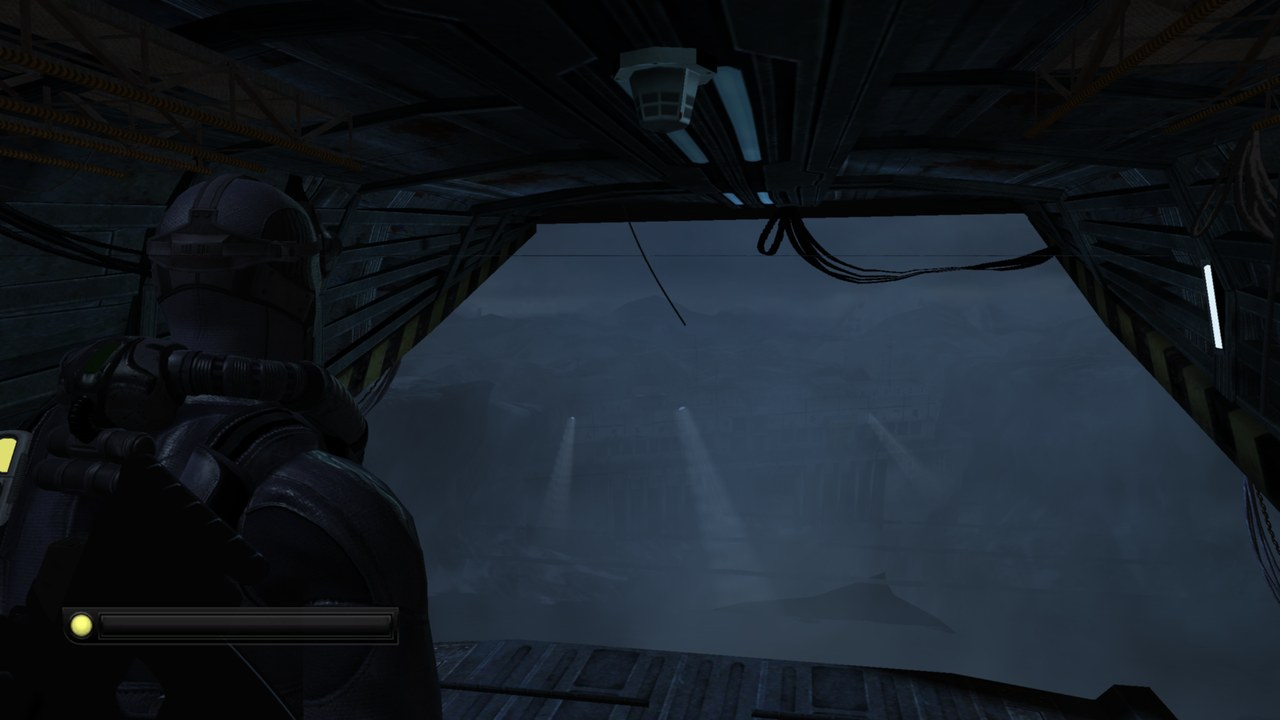
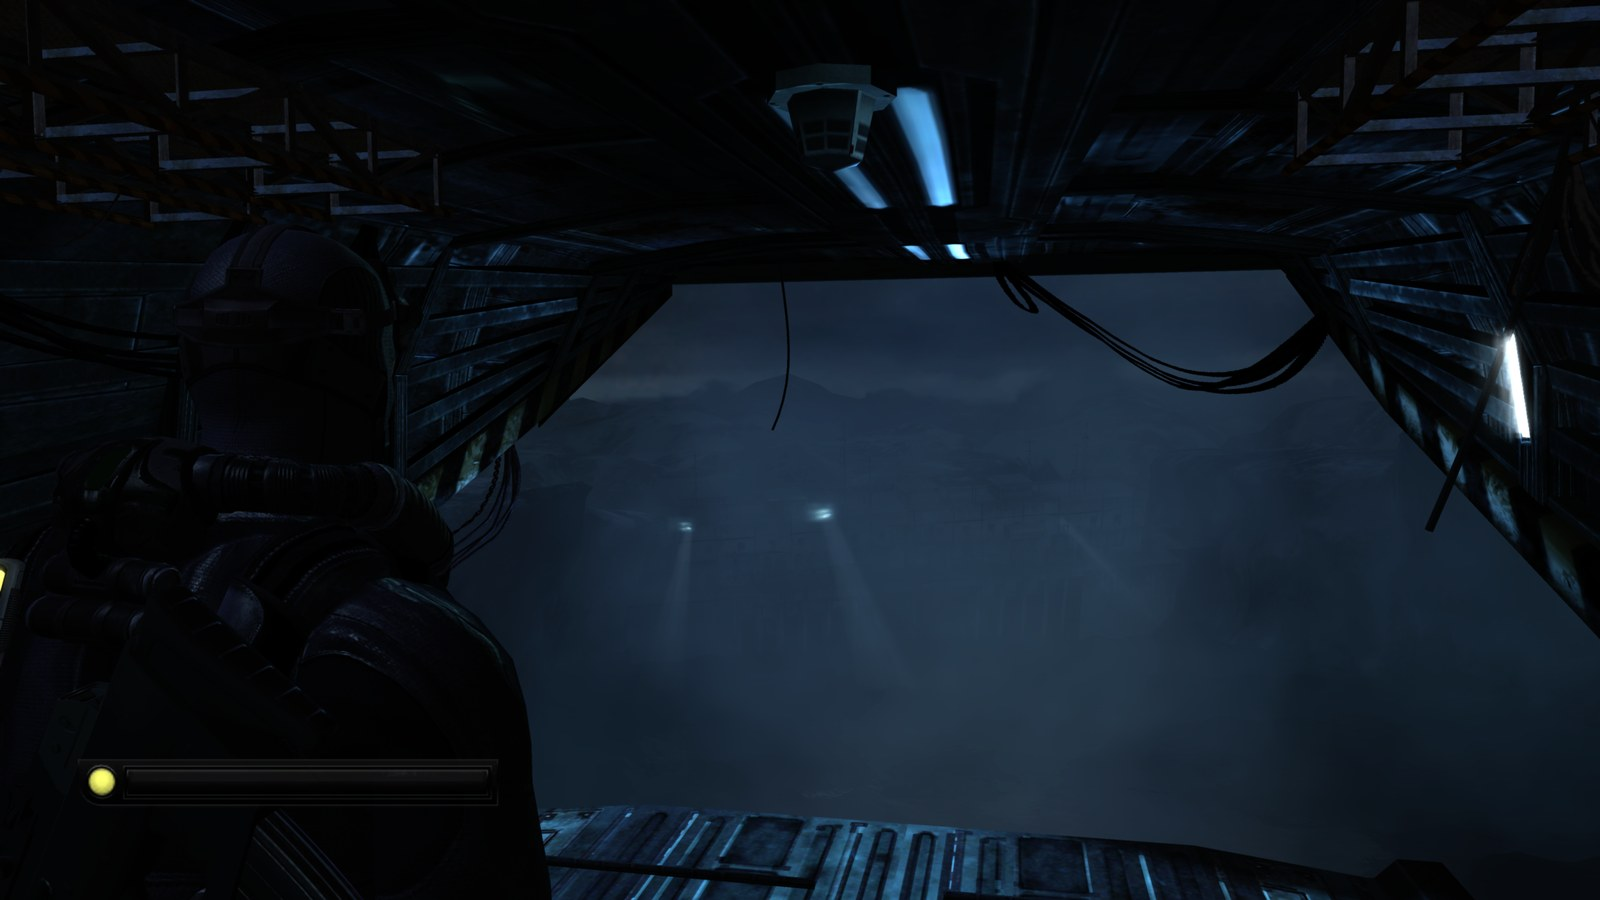
README: November patch notes, new screenshots from the current build
Notes for the Cozumel horizon fix, Light distance option, reflections,
shadows, solid walls, JBA HQ flashes, EMF, controllers, F1 menu and
installer. Old screenshots (pre gamma/shadow/horizon fixes) replaced by
9 new Scale 2 captures.

Claude-Session: https://claude.ai/code/session_01JYzPse2snxnKj5ktUB96nP

diff --git a/README.md b/README.md
@@ -32,6 +32,32 @@ stands in for the console:
 
 ## Recent progress
 
+**November 2026**
+
+- **Cozumel ocean reaches the horizon.** A black, stair-stepped band (with a flickering edge) sat between the sea and
+  the sky. The far ocean plane uses an index offset the renderer ignored, so it drew the wrong vertices. Fixed; the sea
+  now runs to a clean horizon like on the Xbox 360.
+- **New Light distance option** (F1 > Display, `[Display] LightDistance=1-8`). Every light switches off beyond a set
+  distance, which leaves far parts of levels dark (for example the Iceland geothermal plant). The default x4 matches
+  the PC widescreen fix; x1 is the console's distance. Costs about 1.5 fps on the heaviest maps.
+- **Reflections and water.** Cube-map textures are now bound, so environment reflections are no longer black, and the
+  water shaders' reflections work.
+- **Shadows and dark bands.** Kinshasa's sun shadows no longer cover the whole ground, and the dark band at the bottom
+  of the screen in New York and the Hotel is gone.
+- **Solid walls.** One-sided walls stay solid when the camera ends up inside them (the Iceland shack was see-through).
+  `DrawBackFaces=0` restores the console's behaviour.
+- **No more black flashes** in the JBA headquarters (occlusion query results now arrive within one frame).
+- **EMF vision** samples its 3D noise texture, like the console.
+- **More fixes:** the bottom band on the sniper scope, point sprites, 1D textures and vertex formats. All 4,532
+  shaders in the game's 20 packages now translate and compile.
+- **Controllers and prompts.** PlayStation and Switch controllers work natively (SDL3, with rumble). Button prompts
+  match the pad or keyboard you use, including the A button on the loading screens.
+- **F1 menu** gains a field of view slider (60-110, 75 is the game's own), and L1/R1 switch tabs.
+- **Installer** has a new window, a Start menu shortcut and an update mode that only replaces the game executable
+  (your saves and settings stay).
+
+**Earlier**
+
 - **Display gamma matches the console.** The game uploads its own gamma ramp to the GPU at boot, which deepens the
   shadows. The port now applies it at present, so night scenes and interiors are as dark as on the Xbox 360.
 - **Real 4x MSAA and no more glow streaks.** Multisampled surfaces are now emulated the way the Xenos GPU lays them
@@ -62,36 +88,23 @@ stands in for the console:
 - **Shader census clean.** With an empty shader cache, every map translates and compiles its shaders (490 in all) with
   no failures.
 
-![Scale 1 vs Scale 3](docs/images/scale_compare.jpg)
-
-*Kinshasa at the console's 1280x720 (left) and at `Scale=3` (right), zoomed in. The two shots come from separate
-runs, so the camera position differs slightly.*
-
 ## Screenshots
 
-Shots come from the current build, running natively on Windows. Shots marked *Scale 2* or *Scale 3* use the internal
-resolution setting; the rest are at the console's 1280x720.
+Shots come from the current build (November 2026), running natively on Windows at `Scale=2` (2560x1440) with 16x
+anisotropic filtering.
 
 | | |
 |:-:|:-:|
-| ![Kinshasa with shadows and gamma](docs/images/kinshasa_shadows.jpg) | ![Iceland: clean night vision](docs/images/iceland_nightvision_clean.jpg) |
-| **Kinshasa**: current build, with the console's gamma and Sam's shadow | **Iceland**: night vision on the Osprey with `CleanGoggles=1` |
-| ![Kinshasa at Scale 3](docs/images/kinshasa_scale3.jpg) | ![Kinshasa gate at Scale 2](docs/images/kinshasa_gate.jpg) |
-| **Kinshasa**: retrieving the plans (*Scale 3*) | **Kinshasa**: through the gate (*Scale 2, 16x anisotropic*) |
-| ![Iceland: night vision](docs/images/iceland_nightvision.jpg) | ![Iceland: intake pipe](docs/images/iceland_pipe_dive.jpg) |
-| **Iceland**: night vision under the ice | **Iceland**: swimming through the plant's intake pipe |
-| ![Iceland: surfacing at the plant](docs/images/iceland_plant_surface.jpg) | ![Iceland: Osprey bay](docs/images/iceland_osprey.jpg) |
-| **Iceland**: surfacing at the geothermal plant | **Iceland**: Osprey bay before the drop (*Scale 2*) |
-| ![Mission complete](docs/images/mission_complete.jpg) | ![Ellsworth Penitentiary](docs/images/jail_cell.jpg) |
-| **MISSION COMPLETE** after Iceland, then on to the next mission | **Ellsworth Penitentiary**: helping Jamie escape (*Scale 3*) |
-| ![Sea of Okhotsk: skydive](docs/images/okhotsk_skydive.jpg) | ![Sea of Okhotsk: under the ice](docs/images/okhotsk_ice_dive.jpg) |
-| **Sea of Okhotsk**: HALO jump toward the supertanker (*Scale 2*) | **Sea of Okhotsk**: diving under the ice (*Scale 2*) |
-| ![Cozumel: cabin](docs/images/cozumel_cabin.jpg) | ![Cozumel: cruise ship](docs/images/cozumel_cruise_ship.jpg) |
-| **Cozumel**: Sam's cabin on the cruise ship (*Scale 2*) | **Cozumel**: climbing the hull (*Scale 2*) |
-| ![Kinshasa](docs/images/kinshasa_city.jpg) | ![Kinshasa streets](docs/images/kinshasa_courtyard.jpg) |
-| **Kinshasa**: retrieving the plans from the camp (*Scale 2*) | **Kinshasa**: the ruined streets (*Scale 2*) |
-| ![Kinshasa garage](docs/images/kinshasa_tunnel.jpg) | ![New York harbor](docs/images/newyork_harbor.jpg) |
-| **Kinshasa**: underground garage (*Scale 2*) | **New York**: the bomb boat at Liberty Island (*Scale 2*) |
+| ![Cozumel: the sea to the horizon](docs/images/cozumel_horizon.jpg) | ![Iceland: the geothermal plant at night](docs/images/iceland_plant_vista.jpg) |
+| **Cozumel**: the sea now reaches the horizon | **Iceland**: the geothermal plant, distant lights on (Light distance x4) |
+| ![Iceland: EMF vision](docs/images/iceland_emf.jpg) | ![Iceland: Osprey bay](docs/images/iceland_osprey.jpg) |
+| **Iceland**: EMF vision | **Iceland**: Osprey bay before the drop |
+| ![Ellsworth Penitentiary](docs/images/jail_cell.jpg) | ![Sea of Okhotsk: under the ice](docs/images/okhotsk_ice_dive.jpg) |
+| **Ellsworth Penitentiary**: helping Jamie escape | **Sea of Okhotsk**: diving under the ice |
+| ![Kinshasa](docs/images/kinshasa_camp.jpg) | ![Shanghai hotel](docs/images/hotel.jpg) |
+| **Kinshasa**: retrieving the plans, with sun shadows | **Shanghai**: arriving at the hotel |
+| ![JBA headquarters](docs/images/jba_hq.jpg) | |
+| **New York**: JBA headquarters | |
 
 ## Status
 
